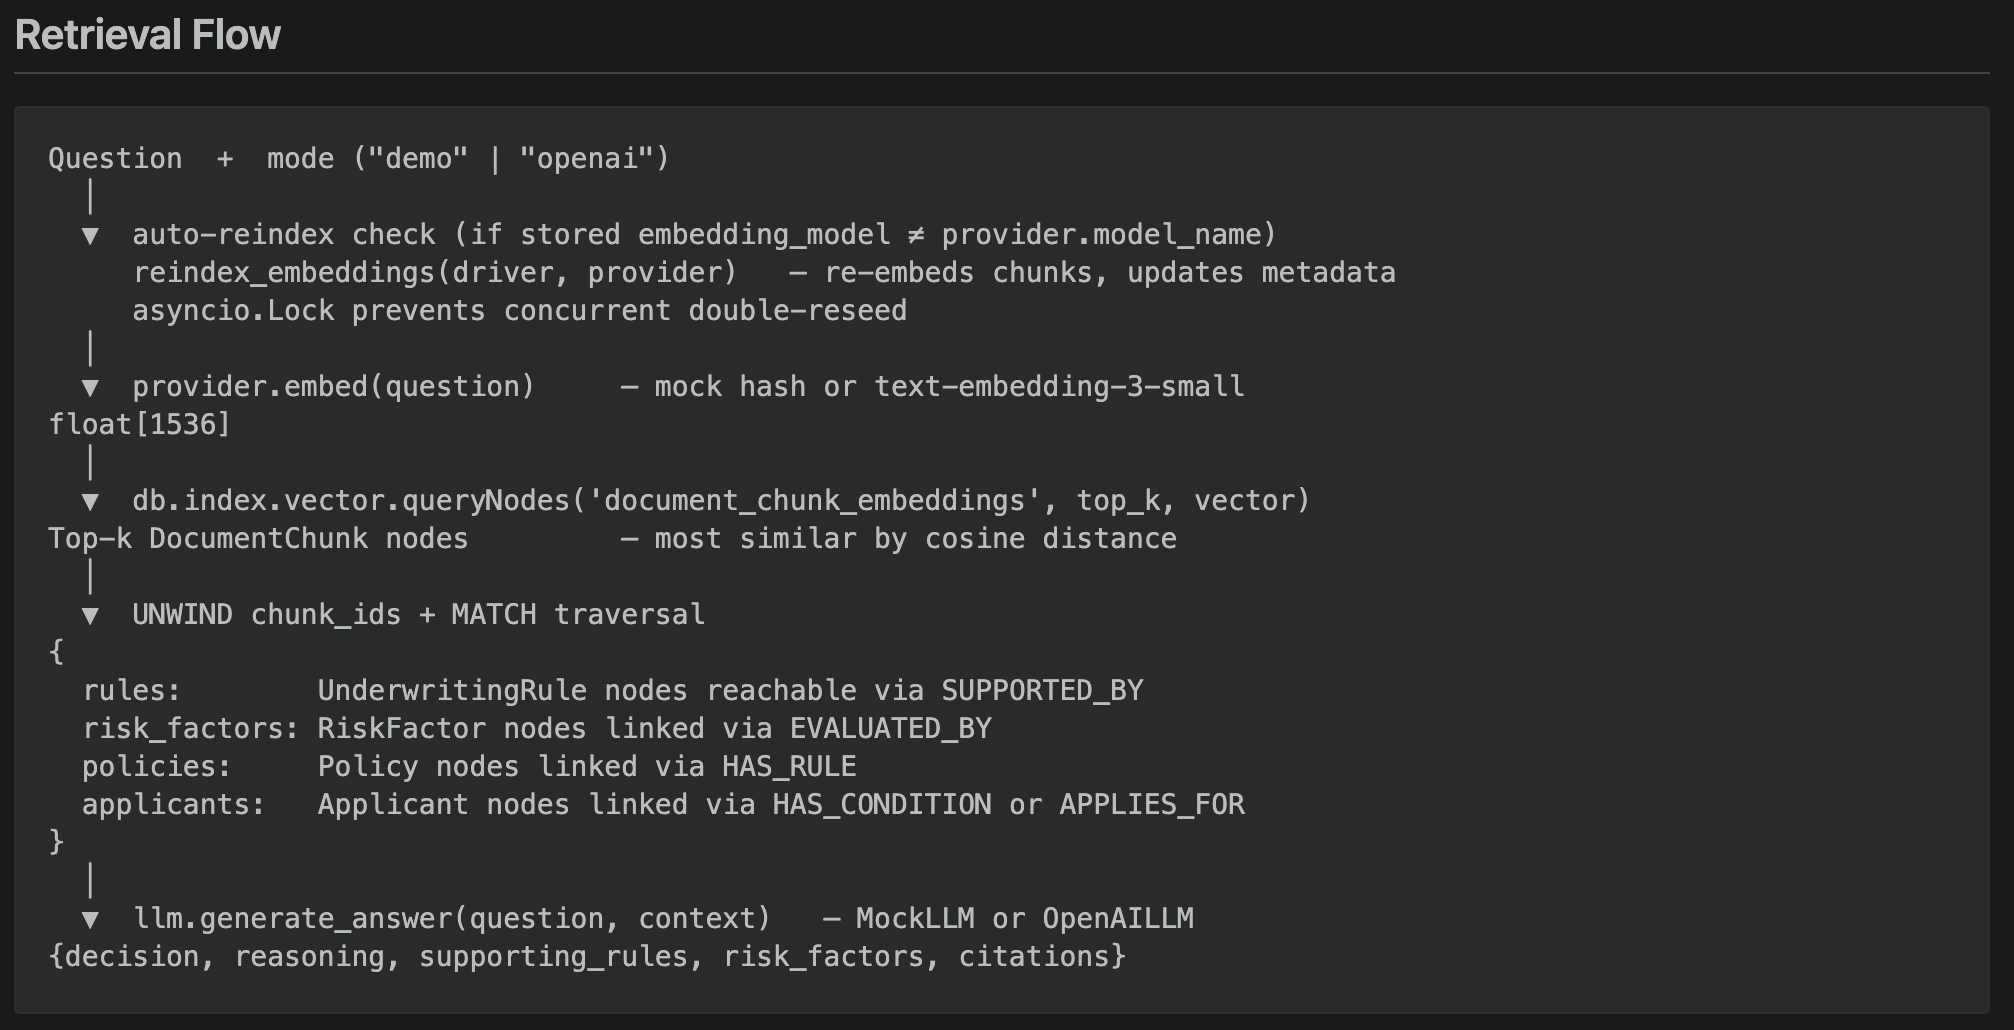
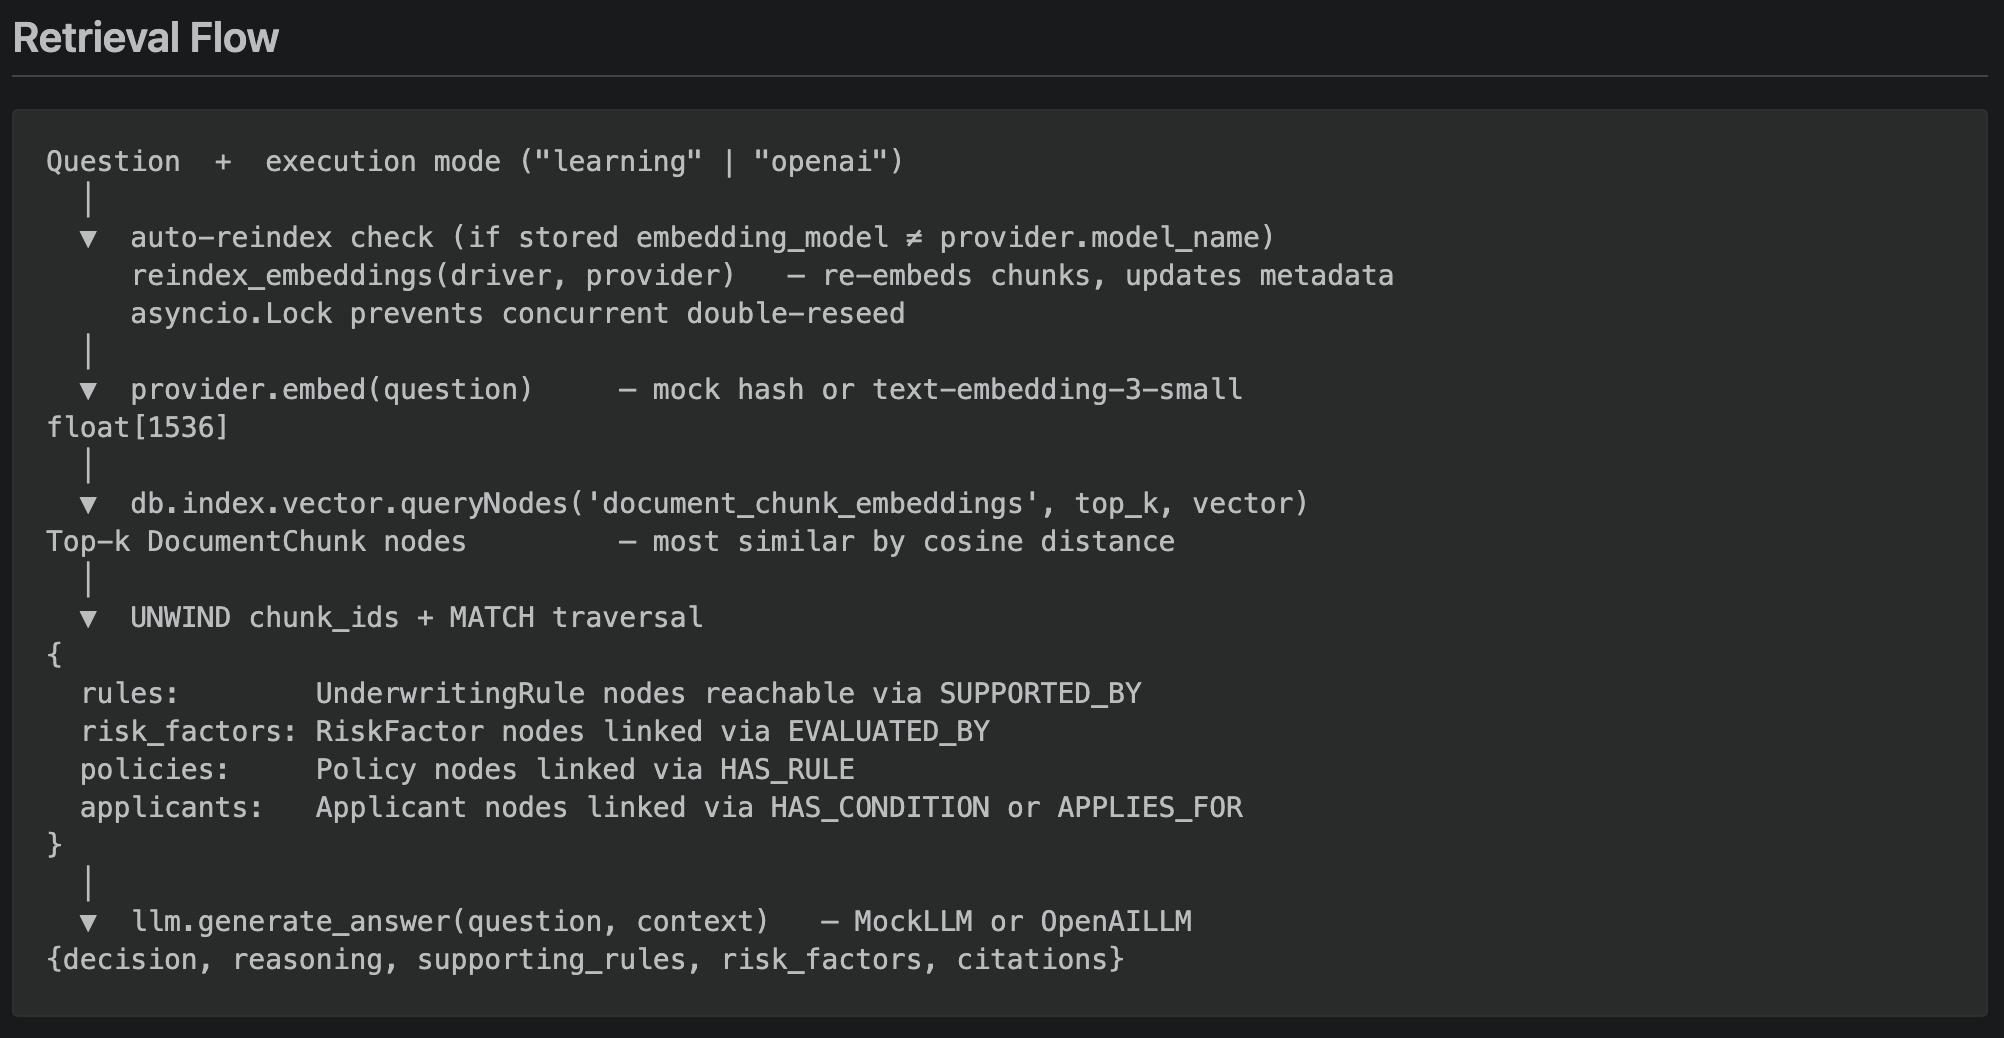
Finalize project branding and documentation

diff --git a/README.md b/README.md
@@ -5,11 +5,11 @@ underwriting, built step-by-step to understand the components of a production Gr
 
 **Stack:** Neo4j 5 · Python 3.11 · FastAPI · OpenAI · Neo4j Vector Indexes · Custom GraphRAG Pipeline
 
-> **Two modes, one pipeline.** In **Demo Mode**, embeddings are mock (SHA-256 hash → float
+> **Two modes, one pipeline.** In **Learning Mode**, embeddings are mock (SHA-256 hash → float
 > vector, not semantic) and decisions come from deterministic business logic — free, offline,
 > and zero-cost. In **OpenAI Mode**, `text-embedding-3-small` embeddings and `gpt-4o` reasoning
 > replace the mock components; the graph model, retrieval flow, and API contract are unchanged.
-> Both modes are intentional: Demo Mode lets you understand the pipeline without any API
+> Both modes are intentional: Learning Mode lets you understand the pipeline without any API
 > dependency; OpenAI Mode shows the same pipeline running with production-grade providers.
 
 ---
@@ -33,7 +33,7 @@ underwriting, built step-by-step to understand the components of a production Gr
 - **Vector Retrieval + Graph Traversal** — two-phase pipeline: HNSW similarity search followed by Cypher relationship traversal in one round-trip
 - **Explainable AI with Citations** — every decision links back to specific graph nodes: manual sections, rules, risk factors
 - **FastAPI Service Layer** — typed request/response models, lifespan-managed resources, structured error handling
-- **Provider Pattern (Demo vs OpenAI)** — strategy pattern so the pipeline never checks which provider is active; `for_mode()` classmethod handles wiring
+- **Provider Pattern (Learning Mode vs OpenAI Mode)** — strategy pattern so the pipeline never checks which provider is active; `for_mode()` classmethod handles wiring
 - **Embedding Consistency Validation** — stored `embedding_model` metadata detected and auto-reindexed when the mode changes
 - **Graph-Based Context Enrichment** — LLM receives structured entities and relationships, not raw text paragraphs
 
@@ -86,7 +86,7 @@ POST /ask  {"question": "...", "mode": "demo" | "openai"}
       │
       ▼
 FastAPI  app/main.py
-      │  (lifespan: one Neo4j driver + two pipelines — demo and openai)
+      │  (lifespan: one Neo4j driver + two pipelines — Learning Mode and OpenAI Mode)
       │
       ├── Auto-reindex (if stored embedding model ≠ requested mode's provider)
       │     reindex_embeddings(driver, provider)   ← only updates vectors, not graph
@@ -94,8 +94,8 @@ FastAPI  app/main.py
       │
       ▼
 GraphRAGPipeline  app/graphrag_pipeline.py
-      │  (selected by mode: demo → MockEmbeddingProvider + MockLLM
-      │                      openai → OpenAIEmbeddingProvider + OpenAILLM)
+      │  (Learning Mode → MockEmbeddingProvider + MockLLM
+      │   OpenAI Mode  → OpenAIEmbeddingProvider + OpenAILLM)
       │
       ├── Phase 1 — Vector search
       │     provider.embed(question) → db.index.vector.queryNodes()
@@ -138,11 +138,11 @@ the rule, rule links to the risk factor and applicant. No single text chunk cont
 Mode is selected **per request** in the browser UI (or via the `mode` field in the API).
 The server pre-creates both pipelines at startup and switches between them automatically.
 
-### Demo Mode (default — no API key needed)
+### Learning Mode (default — no API key needed)
 
 Mock embeddings (SHA-256 hash) + MockLLM (deterministic business logic). Free, offline, instant.
 
-Select **Demo** in the browser or pass `"mode": "demo"` in the request body.
+Select **Learning** in the browser or pass `"mode": "demo"` in the request body.
 
 ### OpenAI Mode (requires `OPENAI_API_KEY`)
 
@@ -171,10 +171,10 @@ python3 -m app.seed          # initial graph setup only — run once
 uvicorn app.main:app --port 8765 --reload
 ```
 
-Then open **http://127.0.0.1:8765** in your browser for the interactive demo UI.
+Then open **http://127.0.0.1:8765** in your browser for the interactive GraphRAG application.
 
-`python3 -m app.seed` is only needed once to populate the graph. Switching between Demo and
-OpenAI mode in the UI re-indexes embeddings automatically — no manual re-seed required.
+`python3 -m app.seed` is only needed once to populate the graph. Switching between Learning Mode and
+OpenAI Mode in the UI re-indexes embeddings automatically — no manual re-seed required.
 
 API docs (Swagger): http://127.0.0.1:8765/docs
 
@@ -182,9 +182,9 @@ API docs (Swagger): http://127.0.0.1:8765/docs
 
 ---
 
-## Browser Demo
+## Browser Application
 
-The root URL (`/`) serves a single-page demo that visualises every pipeline step:
+The root URL (`/`) serves a single-page application that visualises every pipeline step:
 
 | Section | What it shows |
 |---------|--------------|
@@ -208,44 +208,44 @@ No React. No build step. Plain HTML + CSS + JavaScript served by FastAPI.
 
 ![Knowledge Graph Model](docs/images/01-graph-model.png)
 
-Insurance underwriting knowledge graph showing applicants, policies, risk factors, underwriting rules, lab results, and supporting document evidence.
+Insurance underwriting knowledge graph showing the full entity schema — Applicant, Policy, RiskFactor, LabResult, UnderwritingRule, and DocumentChunk nodes connected by typed relationships (HAS_CONDITION, EVALUATED_BY, HAS_RULE, SUPPORTED_BY).
 
 ### 2. Interactive GraphRAG Application
 
 ![Interactive GraphRAG Application](docs/images/02-home.png)
 
-Browser-based GraphRAG application supporting Learning Mode with mock providers and OpenAI Mode with text-embedding-3-small and gpt-4o.
+Browser-based GraphRAG application showing the pipeline step indicator (Question → Vector Search → Graph Traversal → LLM Reasoning → Decision), underwriting question input, and mode selector with **Learning Mode** (mock embeddings · MockLLM) and **OpenAI Mode** (text-embedding-3-small · gpt-4o).
 
 ### 3. Retrieval Flow
 
 ![Retrieval Flow](docs/images/03-flow.png)
 
-End-to-end GraphRAG pipeline from question to embedding generation, Neo4j HNSW vector search, graph traversal, reasoning, and final decision.
+End-to-end pipeline diagram from question and execution mode (`"learning"` or `"openai"`) through auto-reindex check, embedding generation, Neo4j HNSW vector search, graph traversal, and LLM answer generation.
 
 ### 4. Phase 1 – Vector Search
 
-![Vector Search](docs/images/04-vector-search.png)
+![Phase 1 – Vector Search](docs/images/04-vector-search.png)
 
-Question embedding is compared against Neo4j HNSW vector indexes to retrieve the most relevant underwriting document chunks.
+Top-k DocumentChunk nodes retrieved from Neo4j's HNSW vector index by cosine similarity — Underwriting Manual v3.2 sections 6.3, 4.1, and 6.5 with scores of 0.823, 0.781, and 0.774 respectively.
 
 ### 5. Phase 2 – Graph Traversal
 
-![Graph Traversal](docs/images/05-graph-traversal.png)
+![Phase 2 – Graph Traversal](docs/images/05-graph-traversal.png)
 
-Matched document chunks are expanded through graph relationships to retrieve applicants, policies, risk factors, and underwriting rules.
+Structured context assembled from matched chunks via graph traversal: applicant John Smith (age 48), Preferred Term Life policy, two risk factors (Controlled A1C, Type 2 Diabetes), and three underwriting rules with their decision classifications.
 
 ### 6. Explainable Decision & Citations
 
-![Decision and Citations](docs/images/06-decision.png)
+![Explainable Decision & Citations](docs/images/06-decision.png)
 
-Grounded recommendation with transparent reasoning and traceable citations to both source documents and underwriting rules.
+REQUIRE ADDITIONAL REVIEW decision with step-by-step reasoning grounded in the retrieved graph context, and traceable citations linking each conclusion to specific DocumentChunk sources and UnderwritingRule nodes.
 
 ---
 
 ## Sample Request (curl)
 
 ```bash
-# Demo mode (default — no API key required)
+# Learning Mode (default — no API key required)
 curl -X POST http://127.0.0.1:8765/ask \
   -H "Content-Type: application/json" \
   -d '{"question":"Should a diabetic applicant with A1C below 7.0 qualify for preferred term life?","mode":"demo"}'
@@ -326,9 +326,9 @@ Interactive docs (Swagger UI): `http://127.0.0.1:8765/docs`
 
 ---
 
-## Components — Demo Mode vs OpenAI Mode
+## Components — Learning Mode vs OpenAI Mode
 
-| Component     | Demo Mode (default)                         | OpenAI Mode                              |
+| Component     | Learning Mode (default)                     | OpenAI Mode                              |
 |---------------|---------------------------------------------|------------------------------------------|
 | Embeddings    | SHA-256 hash → float[1536] (not semantic)   | `text-embedding-3-small` (semantic)      |
 | LLM           | Deterministic Python business logic         | `gpt-4o` reasoning over graph context   |
@@ -420,7 +420,7 @@ Insurance underwriting GraphRAG reference implementation using Neo4j, vector sea
 
 ```
 static/
-  index.html            — single-page demo UI
+  index.html            — single-page application UI
   styles.css            — no external CDN dependencies
   app.js                — fetch /ask, render each pipeline section
 app/

diff --git a/ARCHITECTURE.md b/ARCHITECTURE.md
@@ -1,12 +1,12 @@
 # Architecture — Neo4j Insurance GraphRAG
 
-Design notes for the retrieval pipeline, graph model, API layer, and demo UI.
+Design notes for the retrieval pipeline, graph model, API layer, and browser application.
 
 ---
 
 ## UI Layer (Step 9)
 
-The demo UI (`static/index.html`, `styles.css`, `app.js`) is an intentionally thin
+The browser application (`static/index.html`, `styles.css`, `app.js`) is an intentionally thin
 visualisation layer. It has one job: call `POST /ask` and render the response sections
 in a way that makes the pipeline steps visible to a human.
 
@@ -23,7 +23,7 @@ Renders 6 sections:
 ```
 
 **Design constraints (deliberately kept):**
-- No React, no build tools, no npm — zero setup friction for a demo
+- No React, no build tools, no npm — zero setup friction for this application
 - No CDN dependencies — works fully offline once the server is running
 - No WebSockets — a simple fetch per question is sufficient for this application
 - `StaticFiles` mount at `/static`, `FileResponse` at `/` — two lines in FastAPI
@@ -31,14 +31,14 @@ Renders 6 sections:
 
 **What the UI does NOT do:**
 The UI is read-only. It does not write to the graph, does not manage sessions, and has
-no authentication. It is a demo tool, not a production UI. The API (`/ask`, `/health`)
+no authentication. It is a learning tool, not a production UI. The API (`/ask`, `/health`)
 is the production surface; the UI is optional scaffolding on top.
 
 **`/ask` response enrichment:**
 Fields added additively across Steps 9–10 (original fields are unchanged):
 - `matched_chunks: list[dict]` — full chunk data (id, source, text, score) for Phase 1 display
 - `graph_context: dict` — rules, risk\_factors, policies, applicants for Phase 2 display
-- `mode: str` — which pipeline ran (`"demo"` or `"openai"`)
+- `mode: str` — which pipeline ran (Learning Mode: `"demo"`, OpenAI Mode: `"openai"`)
 - `embedding_provider: str` — active embedding model name (`"mock"` or `"text-embedding-3-small"`)
 - `llm_provider: str` — active LLM class name (`"MockLLM"` or `"OpenAILLM"`)
 - `compatibility_warning: str | None` — set only if auto-reindex failed; null in normal operation
@@ -105,7 +105,7 @@ and structured.
 ## Retrieval Flow
 
 ```
-Question  +  mode ("demo" | "openai")
+Question  +  execution mode ("learning" | "openai")
   │
   ▼  auto-reindex check (if stored embedding_model ≠ provider.model_name)
      reindex_embeddings(driver, provider)   — re-embeds chunks, updates metadata
@@ -138,7 +138,7 @@ RETURN node.id AS id, node.source AS source, node.text AS text, score
 ```
 
 Returns the DocumentChunk nodes whose embeddings are closest to the query embedding.
-In Demo Mode, similarity scores cluster near 0.5 because mock embeddings are not semantic —
+In Learning Mode, similarity scores cluster near 0.5 because mock embeddings are not semantic —
 all hashes end up in roughly the same region of the 1536-dimensional space.
 
 In production, relevant chunks score near 1.0 and irrelevant ones score near 0.0.
@@ -178,8 +178,8 @@ provider.model_name                         # "mock" | "text-embedding-3-small"
 ```
 
 `GraphRAGPipeline.for_mode(driver, mode)` in `app/graphrag_pipeline.py` wires the correct
-provider for each mode — `MockEmbeddingProvider` for `"demo"`, `OpenAIEmbeddingProvider` for
-`"openai"`. The pipeline never checks env vars at query time; the mode parameter is explicit.
+provider for each mode — `MockEmbeddingProvider` for Learning Mode (`"demo"`), `OpenAIEmbeddingProvider` for
+OpenAI Mode (`"openai"`). The pipeline never checks env vars at query time; the mode parameter is explicit.
 
 **Embedding consistency — automatic from Step 10 onwards:**
 The model name is stored on every `DocumentChunk` node at seed time (`embedding_model` property).
@@ -204,7 +204,7 @@ llm.generate_answer(question: str, context: dict) -> dict
 ```
 
 `GraphRAGPipeline.for_mode(driver, mode)` returns the pipeline wired with the correct LLM:
-`MockLLM` for `"demo"`, `OpenAILLM` for `"openai"`. The pipeline, API response shape, and
+`MockLLM` for Learning Mode (`"demo"`), `OpenAILLM` for OpenAI Mode (`"openai"`). The pipeline, API response shape, and
 citation format are identical in both modes.
 
 `OpenAILLM` uses `response_format={"type": "json_object"}` (JSON mode) so the response
@@ -312,7 +312,7 @@ automatically re-indexed before the query ran.
 
 ## How This Maps to Production GraphRAG
 
-| Demo Mode | OpenAI Mode | Production |
+| Learning Mode | OpenAI Mode | Production |
 |-----------|-------------|------------|
 | `MockEmbeddingProvider` — SHA-256 hash | `OpenAIEmbeddingProvider` — `text-embedding-3-small` | Same as OpenAI Mode, or self-hosted model |
 | `MockLLM` — Python decision tree | `OpenAILLM` — gpt-4o with JSON mode | enterprise-approved LLM |
@@ -321,7 +321,7 @@ automatically re-indexed before the query ran.
 | No auth | Same | JWT / API key via FastAPI `Depends()` |
 | stdout logging | Same | Structured JSON logs + `retrieval_summary` metrics |
 
-Mode B is already implemented. Switching requires only `OPENAI_API_KEY` in `.env`; embeddings
+OpenAI Mode is already implemented. Switching requires only `OPENAI_API_KEY` in `.env`; embeddings
 re-index automatically on the first request in that mode. The graph schema, traversal query,
 context assembly, and API contract are unchanged across all three columns.
 The production path is a substitution, not a rewrite.

diff --git a/DEMO_SCRIPT.md b/DEMO_SCRIPT.md
@@ -1,11 +1,11 @@
-# Demo Script — 2-Minute Technical Walkthrough
+# Technical Walkthrough — 2 Minutes
 
 A structured talking track for presenting this project to a technical audience.
 Each section has a suggested time and the key point to land.
 
 ---
 
-## Live Browser Demo (before the verbal walkthrough)
+## Live Browser Application (before the verbal walkthrough)
 
 Run this before a presentation, or open a browser during a screen-share:
 
@@ -16,12 +16,12 @@ uvicorn app.main:app --port 8765 --reload
 open http://127.0.0.1:8765
 ```
 
-**Demo flow — 60 seconds in the browser:**
+**Browser walkthrough — 60 seconds:**
 
-1. **Show the mode selector.** Point out the two options: Demo Mode (mock, free) and OpenAI Mode (real embeddings + gpt-4o).
-   *"The selector controls which embedding provider and LLM the pipeline uses for this request. Demo Mode is the default — zero cost, no API key needed."*
+1. **Show the mode selector.** Point out the two options: Learning Mode (mock, free) and OpenAI Mode (real embeddings + gpt-4o).
+   *"The selector controls which embedding provider and LLM the pipeline uses for this request. Learning Mode is the default — zero cost, no API key needed."*
 
-2. **Leave Demo Mode selected. Click Ask.** While it loads: *"It's hitting a FastAPI endpoint, which calls GraphRetriever, then a decision layer."*
+2. **Leave Learning Mode selected. Click Ask.** While it loads: *"It's hitting a FastAPI endpoint, which calls GraphRetriever, then a decision layer."*
 
 3. **Provider bar:** Point to the bar that appears above the results.
    *"This confirms which providers ran — Embedding: mock, LLM: MockLLM. Now switch to OpenAI Mode and click Ask again."*

diff --git a/LEARNING_NOTES.md b/LEARNING_NOTES.md
@@ -931,7 +931,7 @@ so the bottleneck in production will be the LLM API latency, not the graph retri
 ## What Changed in Step 8
 
 Updated files:
-- `app/config.py` — five new env vars: `OPENAI_API_KEY`, `USE_OPENAI_EMBEDDINGS`, `OPENAI_EMBEDDING_MODEL`, `USE_OPENAI_LLM`, `OPENAI_LLM_MODEL`
+- `app/config.py` — three env vars: `OPENAI_API_KEY`, `OPENAI_EMBEDDING_MODEL`, `OPENAI_LLM_MODEL`
 - `app/embed.py` — added `MockEmbeddingProvider`, `OpenAIEmbeddingProvider`, `get_embedding_provider()` factory; kept `mock_embed()` for backward compatibility
 - `app/seed.py` — uses `get_embedding_provider()` instead of `mock_embed()` directly; stores `embedding_model` and `embedding_provider` as properties on DocumentChunk nodes
 - `app/graph_retriever.py` — accepts `embedding_provider` parameter; adds `_check_embedding_compatibility()` warning
@@ -1121,7 +1121,7 @@ Quick-reference answers. Full narrative is in [DEMO_SCRIPT.md](DEMO_SCRIPT.md).
 
 A GraphRAG system for insurance underwriting. It answers underwriting questions by combining
 Neo4j vector similarity search with structured graph traversal, then feeding the assembled
-context to a decision layer (MockLLM in Demo Mode, real LLM in production).
+context to a decision layer (MockLLM in Learning Mode, real LLM in production).
 
 ---
 

diff --git a/TODO.md b/TODO.md
@@ -104,7 +104,7 @@ Steps follow the actual build sequence. Each step has a clear deliverable.
 
 ---
 
-## ✅ Step 9 — Browser Demo UI
+## ✅ Step 9 — Browser Application UI
 
 - `static/index.html` — pipeline overview strip, query textarea, 6 result sections
 - `static/styles.css` — no CDN dependencies; colour-coded decision badges, responsive grid
@@ -118,7 +118,7 @@ Steps follow the actual build sequence. Each step has a clear deliverable.
 
 ---
 
-## ✅ Step 10 — Demo Mode vs OpenAI Mode Selection + Auto-Reindex
+## ✅ Step 10 — Learning Mode vs OpenAI Mode Selection + Auto-Reindex
 
 **Mode selection:**
 - `app/graphrag_pipeline.py` — `__init__` accepts `embedding_provider` and `llm` params; `for_mode(driver, mode)` classmethod wires the correct providers (`MockEmbeddingProvider + MockLLM` for `"demo"`, `OpenAIEmbeddingProvider + OpenAILLM` for `"openai"`)

diff --git a/CYPHER_QUERIES.md b/CYPHER_QUERIES.md
@@ -172,7 +172,7 @@ The LLM receives not just the chunk text but the entire structured context —
 applicant profile, lab result, risk factors, and the rule decision — all from
 a single vector hit + graph traversal.
 
-**Interview summary:**
+**GraphRAG summary:**
 > "The DocumentChunk nodes are semantic entry points into the graph. Vector search
 > finds the relevant chunk; the graph provides the structured reasoning context
 > around it. Together they enable multi-hop, explainable answers that neither
@@ -378,4 +378,4 @@ RETURN
     [x IN (collect(DISTINCT a_cond) + collect(DISTINCT a_pol)) WHERE x IS NOT NULL | x.name] AS applicants
 ```
 
-This is the query to study when preparing to explain GraphRAG retrieval in an interview.
+This is the query to study when preparing to explain GraphRAG retrieval and graph-based context assembly.
